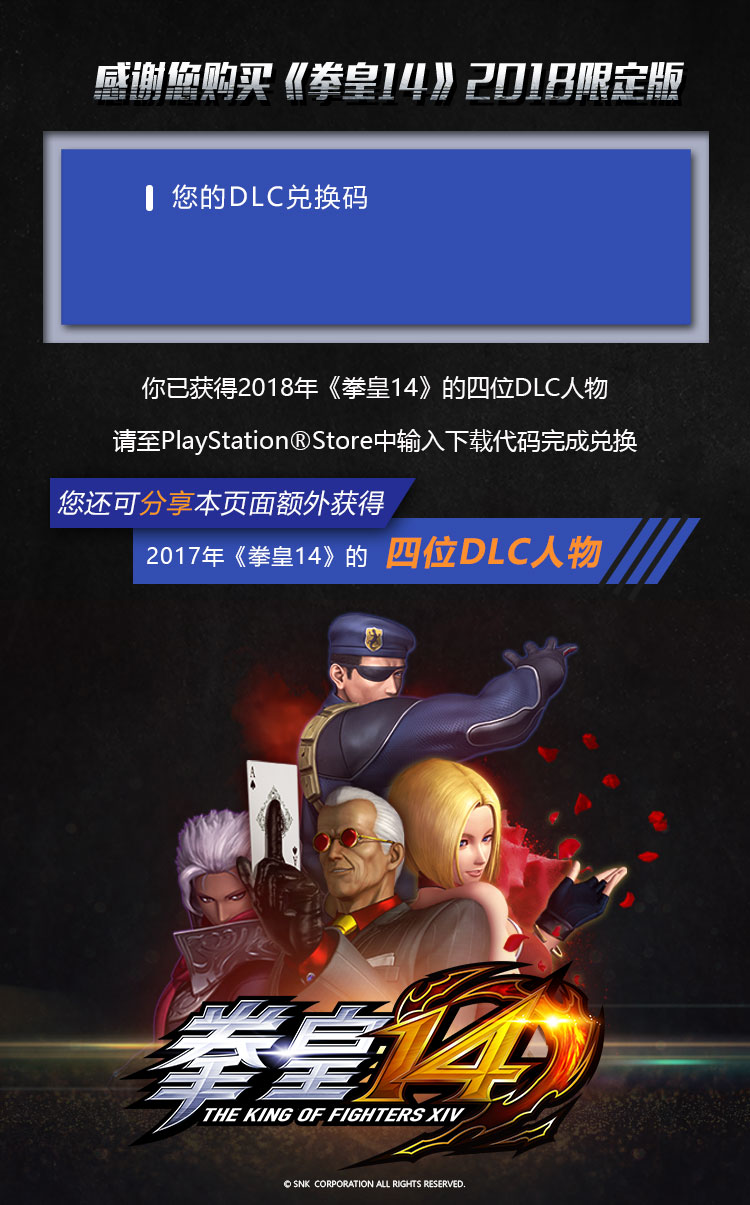
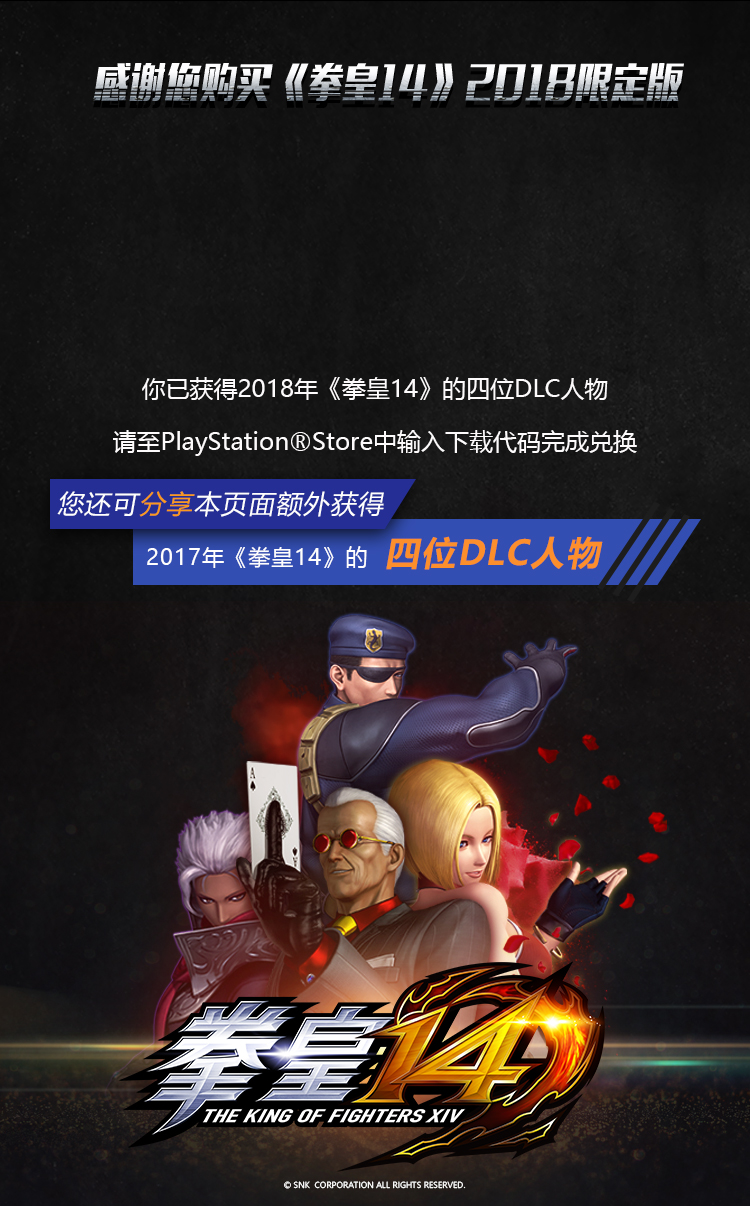
first commit

diff --git a/css/cdk.css b/css/cdk.css
@@ -111,17 +111,20 @@ ul,li{
 }
 .title-no{
 	position: absolute;
-	top: 5.5rem;
-    left: 0rem;
-    width: 100%;
-    height: 2rem;
-	text-align: center;
-	line-height: 2rem;
-	font-size: 1rem;
-	padding-left: 1.1rem;
-	color: #fff;
-	box-sizing: border-box;
-	display: none;
+    top: 3rem;
+    left: 50%;
+    width: 14rem;
+    height: 5rem;
+    text-align: center;
+    line-height: 2rem;
+    font-size: 1rem;
+    color: #fff;
+    margin-left: -7rem;
+    display: none;
+    background: url(../images/mian-ccdk.png) no-repeat center center;
+    background-size: 100% 100%;
+    padding-top: 2rem;
+    box-sizing: border-box;
 }
 .title-no>span{
 	display: inline-block;
@@ -215,7 +218,7 @@ ul,li{
 	bottom: 0.5rem;
 	left: 50%;
 	margin-left: -7rem;
-	animation: name 1s 0.8s forwards;
+	
 	z-index: 12;
 	transform: scale(2,2);
 }
@@ -236,7 +239,7 @@ ul,li{
 	bottom: 3rem;
 	left: 50%;
 	margin-left: -2.5rem;
-	animation: name1 1s 0.8s forwards;
+	
 	z-index: 9;
 	transform: translate(0rem,-2rem);
 }
@@ -257,7 +260,7 @@ ul,li{
 	background: url(../images/ain-z.png) no-repeat center center;
 	background-size: 100% 100%;
 	opacity: 0;
-	animation: namez 1s 1s forwards;
+	
 	z-index: 8;
 }
 @keyframes namez{
@@ -279,7 +282,7 @@ ul,li{
 	background: url(../images/ain-y.png) no-repeat center center;
 	background-size: 100% 100%;
 	opacity: 0;
-	animation: namey 1s 1s forwards;
+	
 	z-index: 8;
 }
 @keyframes namey{
@@ -303,7 +306,7 @@ ul,li{
 	background: url(../images/ain-w.png) no-repeat center center;
 	background-size: 100% 100%;
 	opacity: 0;
-	animation: namew 1s 1.2s forwards;
+	
 }
 @keyframes namew{
 	from{
@@ -322,7 +325,7 @@ ul,li{
     z-index: 9;
 	background: url(../images/ain-g.png) no-repeat center center;
 	background-size: 100% 100%;
-	animation: nameg 1.5s  1.8s  infinite;
+	
 	opacity: 0;
 }
 @keyframes nameg{
@@ -345,7 +348,7 @@ ul,li{
 	background: url(../images/ain-x.png) no-repeat center center;
 	background-size: 100% 100%;
 	opacity: 0;
-	animation: namex 1s 1.4s forwards;
+	
 }
 
 .ain-h{
@@ -358,7 +361,7 @@ ul,li{
 	background: url(../images/ain-h.png) no-repeat center center;
 	background-size: 100% 100%;
 	opacity: 0;
-	animation: namex 1s 1.4s forwards;
+	
 }
 @keyframes namex{
 	from{
@@ -378,7 +381,7 @@ ul,li{
 	background: url(../images/ain-q.png) no-repeat center center;
 	background-size: 100% 100%;
 	opacity: 0;
-	animation: nameq 1s 1.4s forwards;
+	
 }
 @keyframes nameq{
 	from{
@@ -387,6 +390,34 @@ ul,li{
 	to{
 		opacity: 1;
 	}
+}
+
+.ain-qh14s{
+	animation: name 1s 0.8s forwards;
+}
+.ain-1s{
+	animation: name1 1s 0.8s forwards;
+}
+.ain-zs{
+	animation: namez 1s 1s forwards;
+}
+.ain-ys{
+	animation: namey 1s 1s forwards;
+}
+.ain-ws{
+	animation: namew 1s 1.2s forwards;
+}
+.ain-gs{
+	animation: nameg 1.5s  1.8s  infinite;
+}
+.ain-xs{
+	animation: namex 1s 1.4s forwards;
+}
+.ain-hs{
+	animation: namex 1s 1.4s forwards;
+}
+.ain-qs{
+	animation: nameq 1s 1.4s forwards;
 }
 
 
@@ -515,6 +546,7 @@ ul,li{
     text-align: center;
     font-size: 0.6rem;
     color: #000;
+    letter-spacing: 0.1rem;
 }
 .zhezhao{
 	position: fixed;
@@ -522,6 +554,29 @@ ul,li{
 	top: 0;
 	width: 100%;
 	height: 100%;
-	background-color: #fff;
+	background-color: black;
 	display: none;
+}
+.zaijia{
+	width: 2rem;
+	height: 2rem;
+	background: url(../images/jiazai.png) no-repeat center center;
+	background-size: 100% 100%;
+	position: absolute;
+	left: 50%;
+	top: 50%;
+	margin-left: -1rem;
+	margin-top: -1rem;
+	animation: nameo 1s infinite linear;
+}
+@keyframes nameo{
+	0%{
+		transform: rotate(0deg);
+	}
+	50%{
+		transform: rotate(180deg);
+	}
+	100%{
+		transform: rotate(360deg);
+	}
 }

diff --git a/js/test.js b/js/test.js
@@ -1,3 +1,14 @@
+$(document).ready(function(){
+	$('.ain-qh14').addClass('ain-qh14s');
+	$('.ain-1').addClass('ain-1s');
+	$('.ain-z').addClass('ain-zs');
+	$('.ain-y').addClass('ain-ys');
+	$('.ain-w').addClass('ain-ws');
+	$('.ain-g').addClass('ain-gs');
+	$('.ain-x').addClass('ain-xs');
+	$('.ain-h').addClass('ain-hs');
+	$('.ain-q').addClass('ain-qs');
+}); 		
 	$("#cdkey").bind('input propertychange',function(){
          	var user = $("#cdkey").val(); 
          	var Chinese = /^[\w\?%&=\-_]+$/;
@@ -80,9 +91,9 @@ console.log(hrt);
 if(hrt<800){
 	$('body').css('height','28rem');
 }
-$('input').click(function(){
-	$('body').height('28.38rem');
-})
+//$('input').click(function(){
+//	$('body').height('28.38rem');
+//})
 //$(document).ready(function () {
 //　　$('body').height('28rem');
 //});
@@ -135,8 +146,14 @@ function postData(url, data) {
 				            		 codeIdd.push( result[i]);				               
 				            }
 				        }
-				        
-				        $('.title-no').html("<span>"+codeIdd[0].codeString+"</span>");
+				        $('.zhezhao').css("display","block");
+						$('body').css({"background":"url(images/beijing2.jpg) no-repeat center center","background-size":"100% 100%"})
+						$('.header').css("display","none");
+						$('.ain').css("display","none");
+						$('.title-no').css("display","block");
+				        var p = setTimeout(function(){
+							$('.zhezhao').css("display","none");
+						  },800);$('.title-no').html("<span>"+codeIdd[0].codeString+"</span>");
 //				        console.log(codeId[0]);
 						var codeIdo = "https://weixin-test-ziweigamepoch.c9users.io/api/codes/"+codeIdd[0]._id+"?_method=PATCH";
 //						console.log(codeIdo)
@@ -199,10 +216,7 @@ function postData(url, data) {
 }
 
 $('.button').on('click', function(){
-	$('body').css({"background":"url(images/beijing2.jpg) no-repeat center center","background-size":"100% 100%"})
-	$('.header').css("display","none");
-	$('.ain').css("display","none");
-	$('.title-no').css("display","block");
 	nameC();
 	postData();
+	
 });

diff --git a/index.html b/index.html
@@ -64,7 +64,9 @@
 				<div class="ain-h"></div>
 				<div class="ain-q"></div>
 			</div>
-			<div class="zhezhao"></div>
+			<div class="zhezhao">
+				<div class="zaijia"></div>
+			</div>
 	</body>
 	<script src="js/jquery.min.js" type="text/javascript" charset="utf-8"></script>
 	<script src="js/test.js" type="text/javascript" charset="utf-8"></script>
